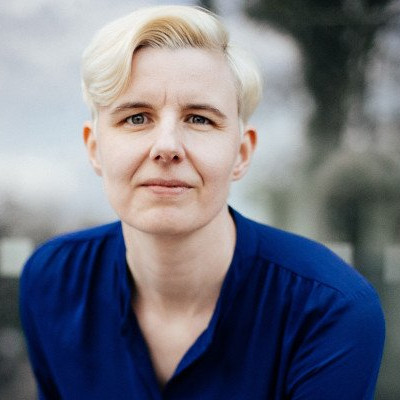
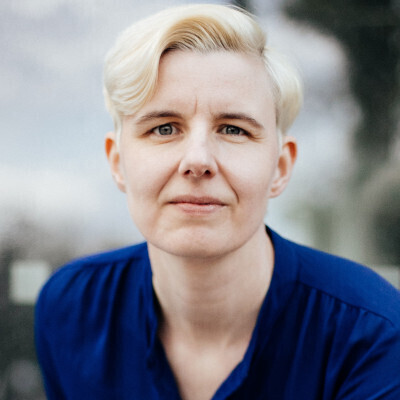
Round trainer images

diff --git a/css/layout.css b/css/layout.css
@@ -168,7 +168,7 @@ the > * means that every child element of .section has this max-width
 #trainers > #profile-container {
     display: flex;
     flex-direction: row;
-    column-gap: 3rem;
+    column-gap: 4rem;
 
     /* put profiles below each other if there is not enough space */
     flex-wrap: wrap;

diff --git a/css/style.css b/css/style.css
@@ -152,7 +152,7 @@ em {
 }
 
 #trainers img {
-    border-radius: 2%;
+    border-radius: 50%;
 }
 
 #trainers #profile-container p {
